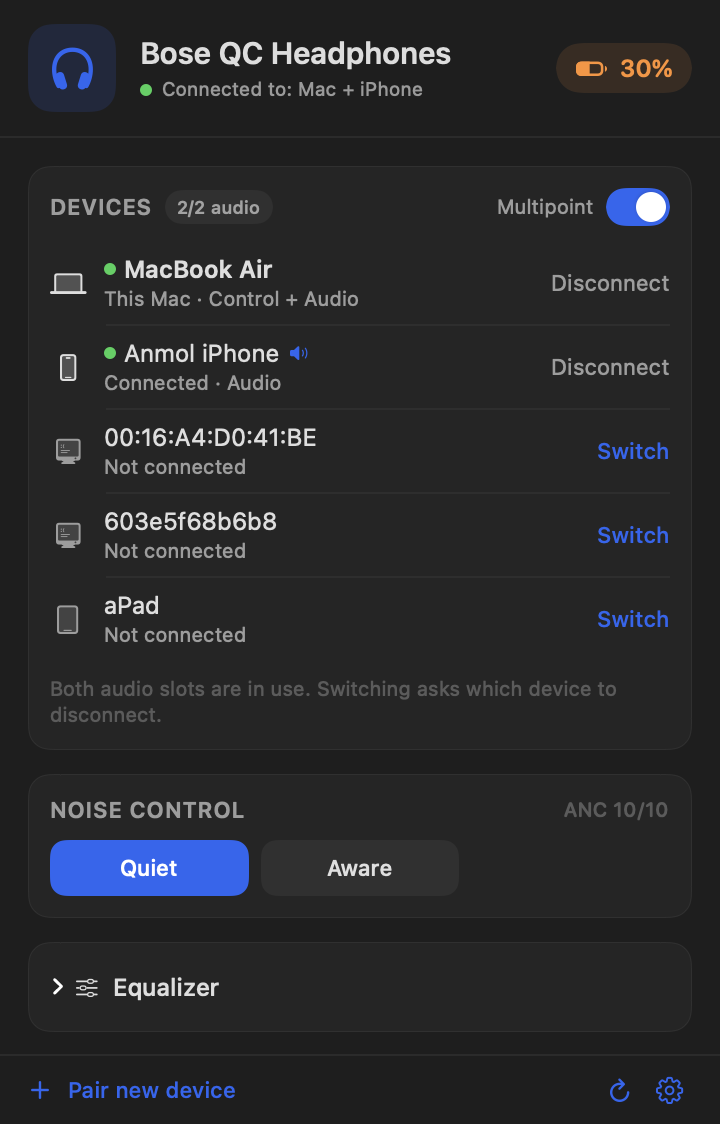
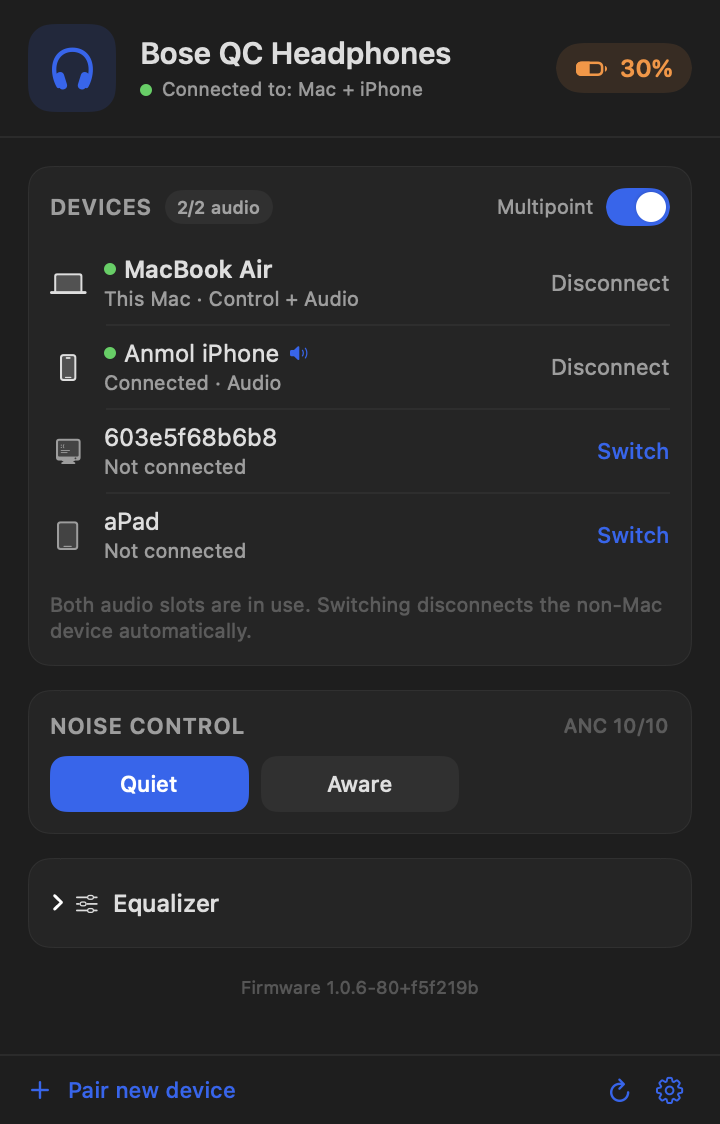
Hide unnamed stale paired entries by default

diff --git a/Sources/UI/PopoverView.swift b/Sources/UI/PopoverView.swift
@@ -22,6 +22,7 @@ struct PopoverView: View {
 
     @State private var showEqualizer = false
     @State private var confirmPowerOff = false
+    @AppStorage("showUnnamedDevices") private var showUnnamedDevices = false
 
     private var isConnected: Bool { model.linkState.isConnected }
 
@@ -292,7 +293,7 @@ struct PopoverView: View {
                 pendingSwitchCard(pending)
             }
 
-            if model.peers.isEmpty {
+            if visiblePeers.isEmpty {
                 HStack(spacing: 8) {
                     if !model.peersLoaded {
                         ProgressView().controlSize(.mini)
@@ -300,7 +301,9 @@ struct PopoverView: View {
                     Text(!model.peersLoaded
                          ? "Reading paired devices…"
                          : model.supportsPeers
-                            ? "No devices paired with the headphones."
+                            ? (model.peers.isEmpty
+                                ? "No devices paired with the headphones."
+                                : "No named devices are paired. Turn on “Show unnamed devices” in the gear menu.")
                             : "Couldn't read the headphones' device list.")
                         .font(.system(size: 11))
                         .foregroundStyle(.secondary)
@@ -309,7 +312,7 @@ struct PopoverView: View {
                 .padding(.vertical, 4)
             } else {
                 VStack(spacing: 0) {
-                    ForEach(Array(model.peers.enumerated()), id: \.element.id) { index, peer in
+                    ForEach(Array(visiblePeers.enumerated()), id: \.element.id) { index, peer in
                         if index > 0 {
                             Divider().opacity(0.4).padding(.leading, 28)
                         }
@@ -336,6 +339,20 @@ struct PopoverView: View {
             .padding(.horizontal, 6)
             .padding(.vertical, 3)
             .background(Capsule().fill(Color.primary.opacity(0.06)))
+    }
+
+    private var visiblePeers: [BosePeer] {
+        model.peers.filter { peer in
+            showUnnamedDevices || peer.isLocal || peer.connected || !isUnnamed(peer)
+        }
+    }
+
+    private func isUnnamed(_ peer: BosePeer) -> Bool {
+        let name = peer.displayName.uppercased()
+        let mac = peer.mac.uppercased()
+        return name == mac
+            || name == mac.replacingOccurrences(of: ":", with: "-")
+            || name == mac.replacingOccurrences(of: ":", with: "")
     }
 
     private var connectedPeerCount: Int {
@@ -676,6 +693,7 @@ struct PopoverView: View {
                 Divider()
                 Toggle("Show battery in menu bar", isOn: $model.showBatteryInMenuBar)
                 Toggle("Ask which device to disconnect", isOn: $model.confirmBeforeSwitch)
+                Toggle("Show unnamed devices", isOn: $showUnnamedDevices)
                 Toggle("Launch at login", isOn: Binding(
                     get: { model.launchAtLogin },
                     set: { model.setLaunchAtLogin($0) }

diff --git a/RELEASE_NOTES.md b/RELEASE_NOTES.md
@@ -1,23 +1,25 @@
-# BoseBuddy 1.1.3
+# BoseBuddy 1.1.4
 
 BoseBuddy attaches to the headphones over the Mac's existing Bluetooth
 connection.
 
 ## What changed
 
-- Switching now defaults to disconnecting the **non-Mac** device. The Mac keeps
-  its connection and no prompt appears.
-- The chooser is opt-in. Turn on **Ask which device to disconnect** in the gear
-  menu if you want to pick which device to drop.
-- Opening BoseBuddy still makes no new Bluetooth connection, so it cannot
-  displace the iPhone/iPad connection.
+- **Unnamed stale entries are hidden.** The headphones' paired-device memory can
+  contain entries with no name, whose display name is just their MAC address.
+  The Bose app suppresses these; BoseBuddy now does too by default.
+- **Show unnamed devices** is available in the gear menu if you want to see the
+  full list.
+- Switching still defaults to disconnecting the **non-Mac** device, so the Mac
+  keeps its slot.
+- Opening BoseBuddy still makes no new Bluetooth connection.
 
 ## Install (read this first)
 
 BoseBuddy is **not notarized**, so macOS Gatekeeper blocks the first launch.
 That is expected, not a damaged download.
 
-1. Download `BoseBuddy-1.1.3.dmg`.
+1. Download `BoseBuddy-1.1.4.dmg`.
 2. Open it and drag **BoseBuddy** to **Applications**.
 3. Open it once past Gatekeeper:
    - **Right-click BoseBuddy -> Open -> Open** in Applications, or

diff --git a/README.md b/README.md
@@ -47,7 +47,7 @@ restart.
 
 ### From a release (recommended)
 
-1. Download **`BoseBuddy-1.1.3.dmg`** from the
+1. Download **`BoseBuddy-1.1.4.dmg`** from the
    [Releases](../../releases) page.
 2. Open the DMG and drag **BoseBuddy** to **Applications**. Eject the DMG.
 3. **The first launch is blocked by Gatekeeper.** BoseBuddy is ad-hoc signed
@@ -153,6 +153,9 @@ Connected to: Mac + iPhone
 By default, switching disconnects the **non-Mac** device automatically. Turn on
 **Ask which device to disconnect** in the gear menu to choose which device to
 drop instead.
+
+Unnamed stale entries in the headphones' paired-device memory are hidden by
+default. Turn on **Show unnamed devices** in the gear menu to reveal them.
 
 ### Menu bar
 

diff --git a/CHANGELOG.md b/CHANGELOG.md
@@ -1,5 +1,13 @@
 # Changelog
 
+## 1.1.4 — 2026-11-08
+
+- Hide unnamed MAC-only entries in the paired-device list by default. These
+  are stale entries in the headphones' memory that the Bose app suppresses.
+- Add **Show unnamed devices** to the gear menu for anyone who wants the full
+  list.
+- Switching still defaults to disconnecting the non-Mac device.
+
 ## 1.1.3 — 2026-11-08
 
 - Switching now defaults to disconnecting the **non-Mac** device, so the Mac

diff --git a/INSTALL.md b/INSTALL.md
@@ -9,7 +9,7 @@ later launches are normal.
 
 ## 1. Put BoseBuddy in Applications
 
-1. Download **`BoseBuddy-1.1.3.dmg`** from the Releases page.
+1. Download **`BoseBuddy-1.1.4.dmg`** from the Releases page.
 2. Open the DMG.
 3. Drag **BoseBuddy** into the **Applications** folder.
 4. Eject the DMG.
